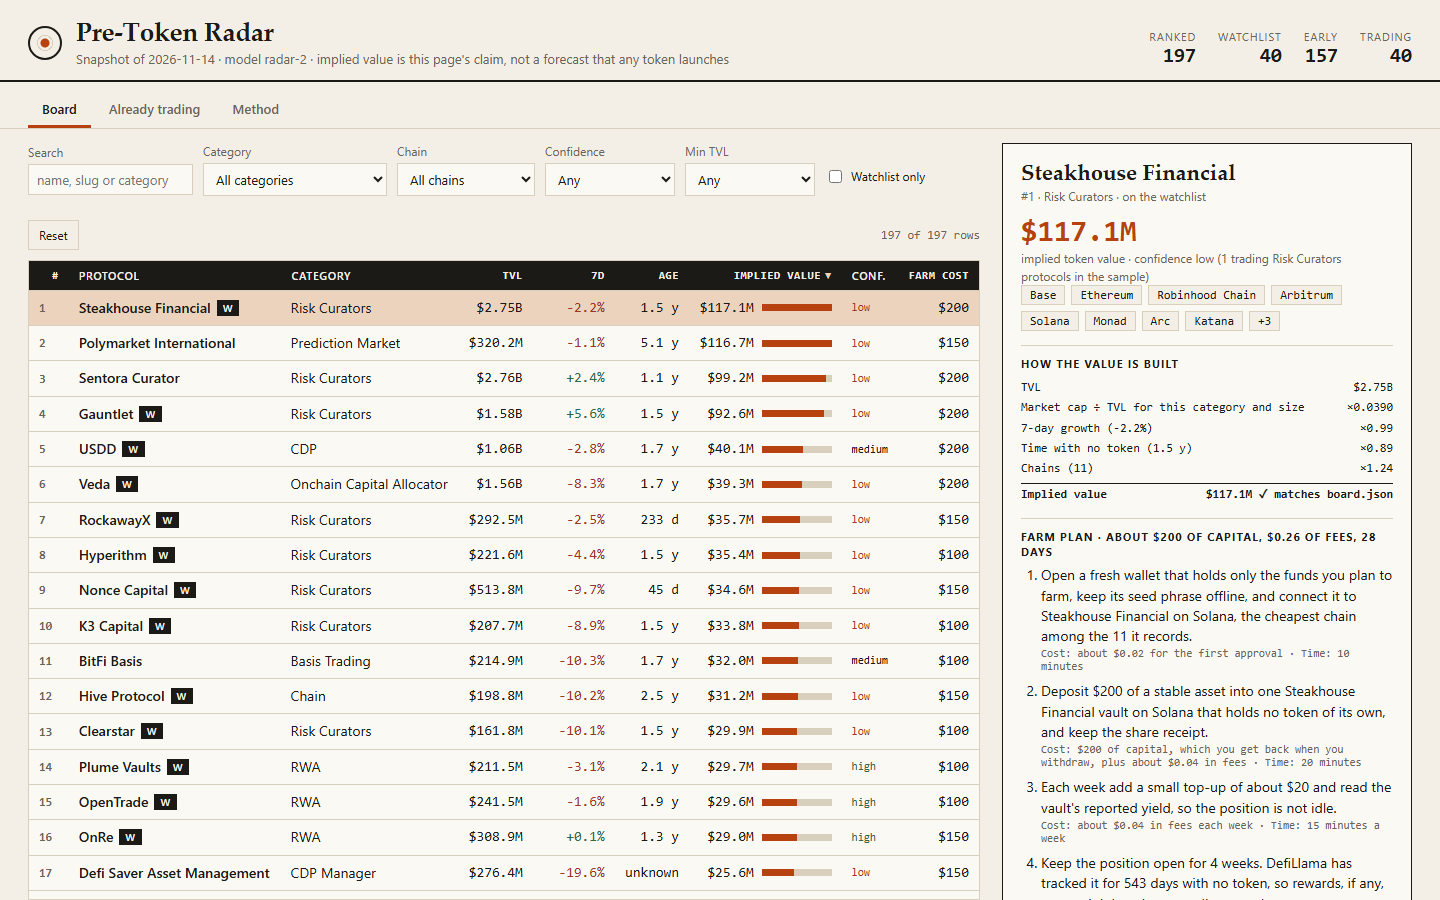
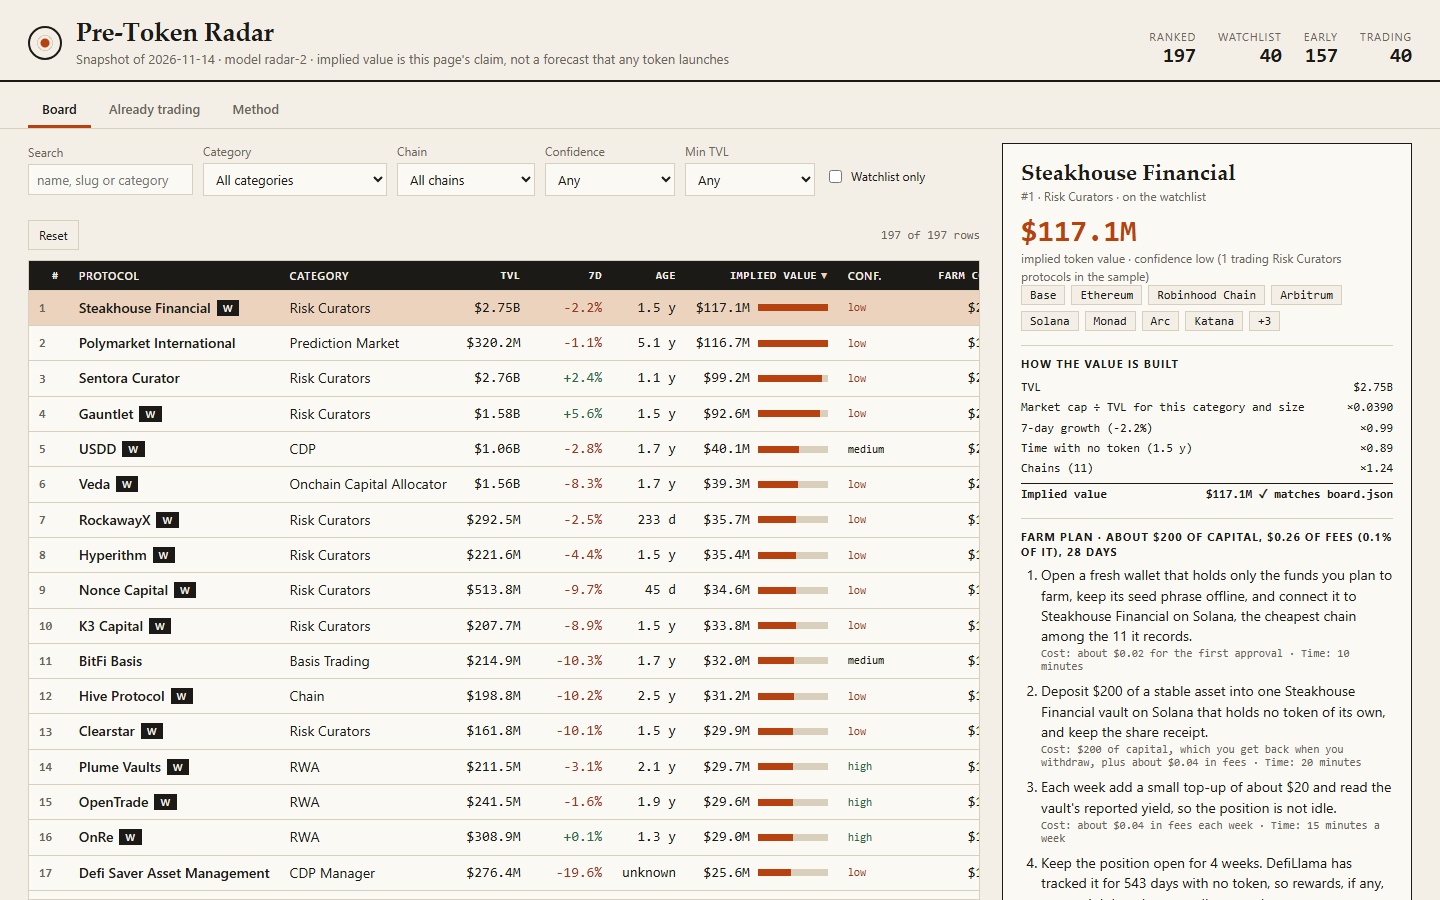
Cap farm capital, flag high-fee plans, halve activity on costly chains

diff --git a/lib/model.ts b/lib/model.ts
@@ -234,6 +234,7 @@ export interface FarmPlan {
   capital_usd: number;
   gas_usd: number;
   days: number;
+  fee_pct: number;
 }
 
 const CHEAP_FAST = new Set(['solana', 'sui', 'aptos', 'ton', 'near', 'sei', 'injective', 'cosmos', 'osmosis', 'hyperliquid l1', 'hyperliquid', 'sonic']);
@@ -278,11 +279,17 @@ function dollars(n: number): string {
   return `$${n >= 100 ? Math.round(n) : n >= 10 ? n.toFixed(0) : n.toFixed(2)}`;
 }
 
+/** The most a plan asks a reader to put in. Past it, the plan says the fees are high instead of asking for more. */
+export const CAPITAL_CAP = 500;
+
+/** Fees above this share of the position are flagged on the board and in the plan. */
+export const HIGH_FEE_SHARE = 0.05;
+
 function capitalFor(tvl: number, gasTotal: number): number {
   const base = tvl >= 1_000_000_000 ? 200 : tvl >= 250_000_000 ? 150 : tvl >= 100_000_000 ? 100 : 50;
   // Fees should stay under 5% of the position, or the farm costs more than it can return.
-  const floorForGas = Math.ceil(gasTotal / 0.05 / 50) * 50;
-  return Math.max(base, floorForGas);
+  const floorForGas = Math.ceil(gasTotal / HIGH_FEE_SHARE / 50) * 50;
+  return Math.min(CAPITAL_CAP, Math.max(base, floorForGas));
 }
 
 function weeksFor(age: number | null): number {
@@ -296,9 +303,15 @@ export function farmPlan(p: SnapshotProtocol, age: number | null): FarmPlan {
   const chain = cheapestChain(p.chains);
   const gas = gasPerTx(chain);
   const weeks = weeksFor(age);
-  const txCount = 3 + weeks * 2 + 2;
+  // Where one transaction costs a dollar or more, act every second week instead of every week.
+  const costly = gas >= 1;
+  const activeWeeks = costly ? Math.ceil(weeks / 2) : weeks;
+  const txCount = 3 + activeWeeks * 2 + 2;
   const gasTotal = Math.round(txCount * gas * 100) / 100;
   const capital = capitalFor(p.tvl_usd, gasTotal);
+  const feeShare = gasTotal / capital;
+  const feePct = Math.round(feeShare * 1000) / 10;
+  const often = costly ? 'every second week' : 'each week';
   const kind = archetypeOf(p.category);
   const name = p.name;
   const money = dollars(capital);
@@ -338,9 +351,9 @@ export function farmPlan(p: SnapshotProtocol, age: number | null): FarmPlan {
     time: '20 minutes',
   });
   steps.push({
-    text: weekly[kind],
-    cost: `about ${dollars(gas * 2)} in fees each week`,
-    time: '15 minutes a week',
+    text: costly ? weekly[kind].replace(/^Each week/, 'Every second week') : weekly[kind],
+    cost: `about ${dollars(gas * 2)} in fees ${often}`,
+    time: costly ? '15 minutes every second week' : '15 minutes a week',
   });
   steps.push({
     text: `Keep the position open for ${weeks} weeks. ${age === null ? 'DefiLlama gives no start date for this protocol, so assume a long window.' : age < 180 ? `DefiLlama began tracking it ${age} days ago, so a rewards program, if one comes, is likely to count early users.` : `DefiLlama has tracked it for ${age} days with no token, so rewards, if any, may weigh how long a wallet stayed.`}`,
@@ -374,12 +387,19 @@ export function farmPlan(p: SnapshotProtocol, age: number | null): FarmPlan {
       time: '20 minutes',
     });
   }
+  if (feeShare > HIGH_FEE_SHARE) {
+    steps.push({
+      text: `Fees are high here: about ${dollars(gasTotal)} over the plan is ${feePct}% of a ${money} position, because ${chain} charges about ${dollars(gas)} a transaction and no cheaper chain is recorded. Skip it unless you can hold a larger position, or wait for fees to fall.`,
+      cost: `${feePct}% of the position goes to fees`,
+      time: 'decide before you deposit',
+    });
+  }
   steps.push({
     text: `Before you withdraw, open the protocol's own points or rewards page and claim only from the link it publishes. Never sign a message that asks for approval on your whole balance. Write the dates and transaction hashes in a log.`,
     cost: 'no fee to check, and never pay to claim',
     time: '15 minutes',
   });
-  return { steps, farm_chain: chain, capital_usd: capital, gas_usd: gasTotal, days: weeks * 7 };
+  return { steps, farm_chain: chain, capital_usd: capital, gas_usd: gasTotal, days: weeks * 7, fee_pct: feePct };
 }
 
 /** A step as one string, inside the gate's 20 to 600 characters. */
@@ -413,6 +433,7 @@ export interface BoardRow {
   farm_gas_usd: number;
   farm_days: number;
   farm_chain: string;
+  farm_fee_pct: number;
   farm_steps: string[];
 }
 
@@ -492,6 +513,7 @@ export function buildBoard(snapshot: Snapshot, cal: Calibration): { board: Board
       farm_gas_usd: plan.gas_usd,
       farm_days: plan.days,
       farm_chain: plan.farm_chain,
+      farm_fee_pct: plan.fee_pct,
     };
     board.push({ ...base, farm_steps: plan.steps.map(stepText) });
     radar.push({ ...base, plan: plan.steps });

diff --git a/dashboard/app.js b/dashboard/app.js
@@ -152,7 +152,7 @@
         el('td', { cls: 'num', text: age(r.age_days) }),
         el('td', { cls: 'num' }, [el('div', { cls: 'val' }, [el('span', { text: usd(r.implied_value_usd) }), el('span', { cls: 'bar' }, [el('i', { style: 'width:' + Math.max(2, Math.round(100 * Math.sqrt(r.implied_value_usd / maxImplied))) + '%' })])])]),
         el('td', { cls: 'conf ' + r.confidence, text: r.confidence }),
-        el('td', { cls: 'num', text: usd(r.farm_capital_usd) })
+        el('td', { cls: 'num' }, [usd(r.farm_capital_usd), r.farm_fee_pct > 5 ? el('span', { cls: 'pill fee', text: 'fees ' + Math.round(r.farm_fee_pct) + '%', title: 'Fees are more than 5% of the position' }) : null])
       ]);
       function pick() { state.sel = r.slug; Array.prototype.forEach.call(tbody.children, function (x) { x.setAttribute('aria-selected', 'false'); }); tr.setAttribute('aria-selected', 'true'); drawDetail(); }
       tr.addEventListener('click', pick);
@@ -186,7 +186,7 @@
       el('div', { cls: 'total' }, [el('span', { text: 'Implied value' }), el('span', { text: usd(recompute(r)) + (check ? ' ✓ matches board.json' : ' ✗ differs') })])
     ]));
 
-    box.appendChild(el('h3', { text: 'Farm plan · about ' + usd(r.farm_capital_usd) + ' of capital, ' + usd(r.farm_gas_usd) + ' of fees, ' + r.farm_days + ' days' }));
+    box.appendChild(el('h3', { text: 'Farm plan · about ' + usd(r.farm_capital_usd) + ' of capital, ' + usd(r.farm_gas_usd) + ' of fees (' + r.farm_fee_pct + '% of it), ' + r.farm_days + ' days' }));
     var ol = el('ol', { cls: 'steps' });
     r.plan.forEach(function (s) {
       ol.appendChild(el('li', null, [s.text, el('span', { cls: 'meta', text: 'Cost: ' + s.cost + ' · Time: ' + s.time })]));

diff --git a/dashboard/app.css b/dashboard/app.css
@@ -58,6 +58,7 @@ td.rank { font: 600 12px var(--mono); color: var(--muted); width: 38px; }
 td.name { font-weight: 600; max-width: 230px; overflow: hidden; text-overflow: ellipsis; }
 .pill { display: inline-block; font: 600 10px var(--sans); letter-spacing: 0.05em; text-transform: uppercase; border: 1px solid var(--ink); padding: 0 5px; margin-left: 6px; vertical-align: 1px; }
 .pill.w { background: var(--ink); color: var(--paper); }
+.pill.fee { border-color: var(--bad); color: var(--bad); }
 .up { color: var(--good); } .down { color: var(--bad); }
 .val { display: flex; align-items: center; justify-content: flex-end; gap: 8px; }
 .bar { width: 70px; height: 7px; background: var(--line); }
